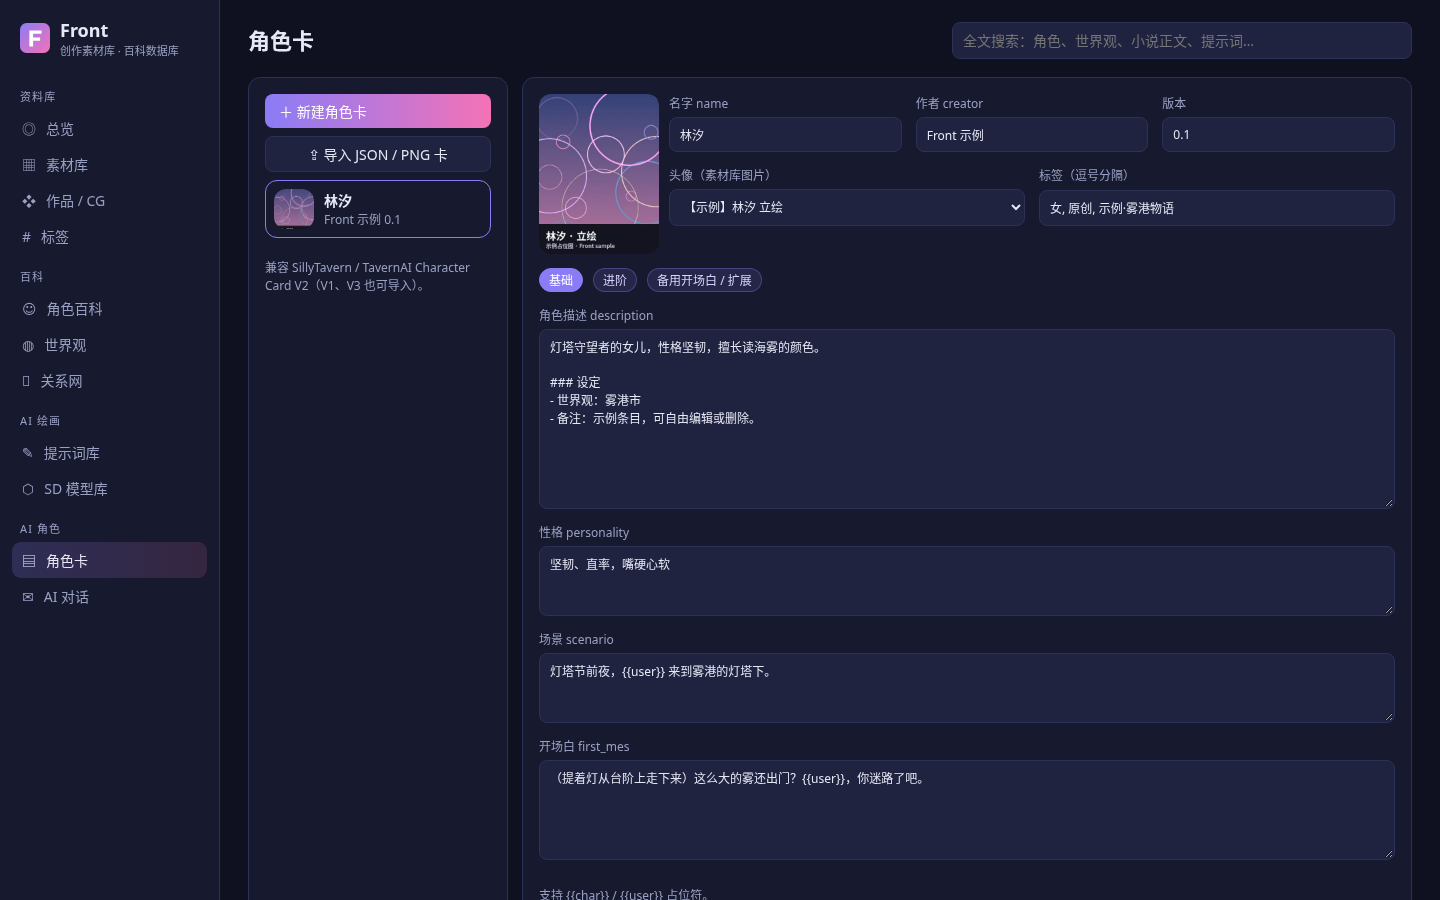
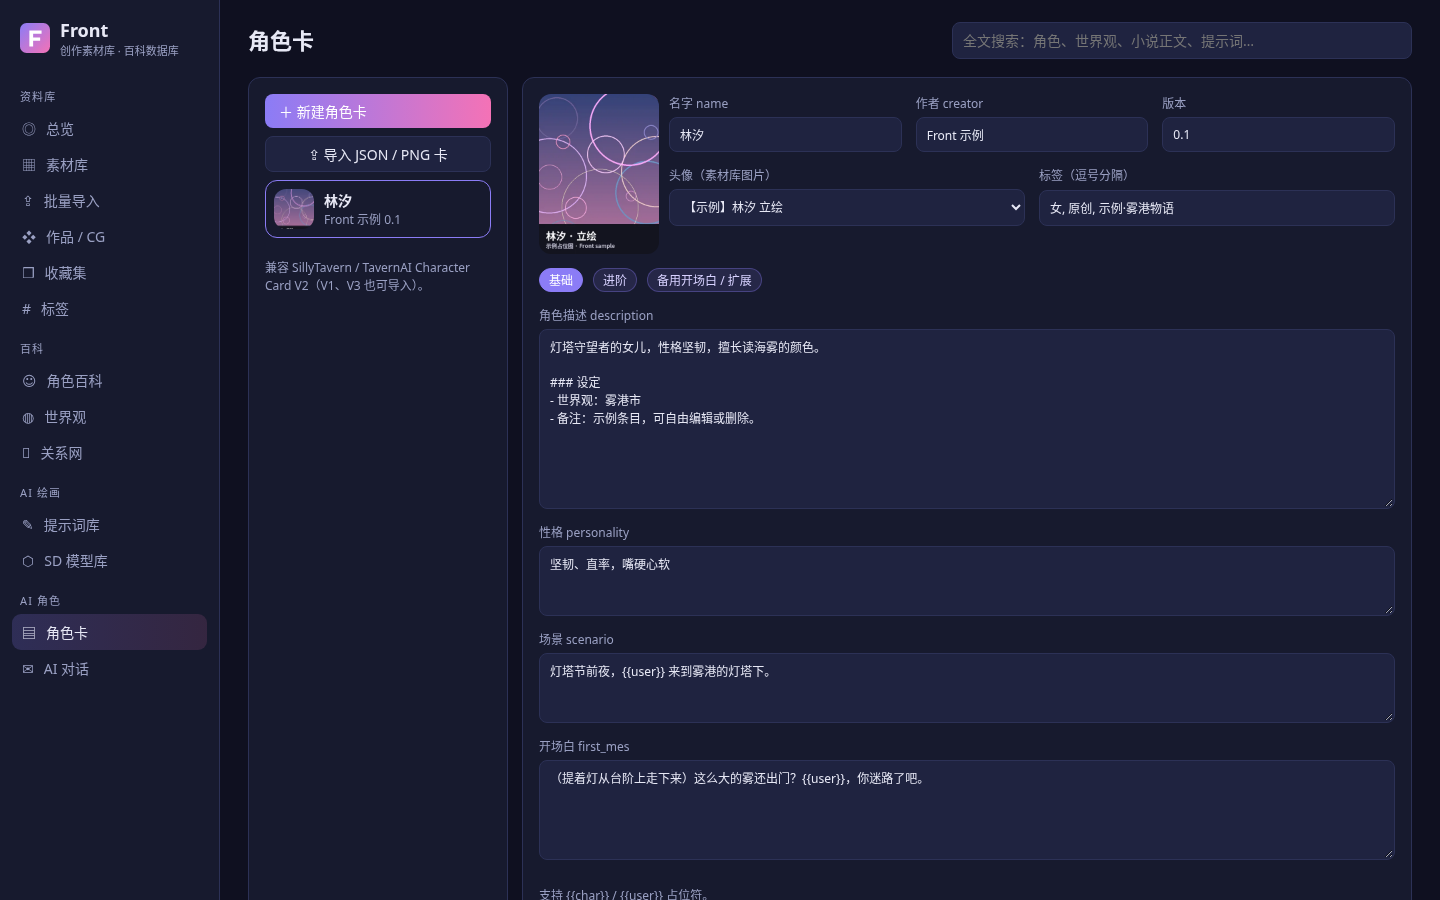
docs: v0.2.0 文档与真实运行截图

Changed region(s): [[0.0, 0.2178, 0.1562, 0.7467]]

diff --git a/README.md b/README.md
@@ -9,25 +9,28 @@
 画作、AI 出图、绘画素材、小说、galgame CG、世界观与角色关系网、SD 模型与提示词、AI 角色卡与对话，全部放进一个属于自己的数据库。
 
 [![CI](https://github.com/Fiesty-Abyss/Front/actions/workflows/ci.yml/badge.svg)](https://github.com/Fiesty-Abyss/Front/actions/workflows/ci.yml)
-![version](https://img.shields.io/badge/version-0.1.0-8b7cf6)
+![version](https://img.shields.io/badge/version-0.2.0-8b7cf6)
 ![license](https://img.shields.io/badge/license-MIT-f472b6)
 ![stack](https://img.shields.io/badge/FastAPI%20%2B%20SQLite%20%2B%20Vue%203-1f2340)
 
 </div>
 
-> Front 是一个长期持续开发的项目，当前为 **v0.1.0**（第一轮）。路线图见 [docs/ROADMAP.md](docs/ROADMAP.md)。
+> Front 是一个长期持续开发的项目，当前为 **v0.2.0**（第二轮）。路线图见 [docs/ROADMAP.md](docs/ROADMAP.md)。
 
 ## 能做什么
 
 | 模块 | 说明 |
 | --- | --- |
 | 🗂 **素材库** | 自己的画、AI 生成图、绘画素材、参考图、小说正文。按**日期（年/月）**、**类型**、**标签**、**作品**、**世界观**筛选；上传自动读取尺寸、生成缩略图、按 SHA256 去重 |
-| ✦ **AI 出图参数识别** | 上传带 SD WebUI / Forge 参数的 PNG，自动识别为“AI 生成”，提取正/反向提示词、步数、采样器、CFG、种子、模型 |
+| ⇪ **批量导入** | 输入本机文件夹路径（或在浏览器里选择文件夹），扫描预览后一键导入；可递归子文件夹、用文件修改时间作为日期、统一打标签；同内容文件自动跳过 |
+| ✦ **AI 出图参数识别** | 自动识别 **SD WebUI / Forge** 的 `parameters` 与 **ComfyUI** 的 `prompt` / `workflow`：沿节点连线找出正/反向提示词，提取采样器、步数、CFG、种子、尺寸、Checkpoint、LoRA；可下载原始工作流拖回 ComfyUI，一键存入提示词库 |
 | 📖 **角色百科** | 角色条目 + 分面标签：性别（男/女）、媒介（动漫/游戏）、来源作品、画风、类型……多个标签取交集，像百科一样检索 |
 | 🌏 **世界观** | Markdown 设定正文，挂接角色与素材 |
 | ⟡ **关系网** | 可视化角色关系图，点两个角色即可连线；AI 识别出的关系以虚线显示，人工确认后转为正式关系 |
-| 🎮 **作品 / CG 档案** | 动漫、游戏、galgame 等作品条目，按作品归档 CG 与收藏集 |
-| ✎ **提示词库** | 正向/反向提示词、参数 JSON、标签；**同一提示词 × 不同模型**并排风格对比 |
+| 🎮 **galgame CG 档案** | CG 模式导入时自动识别**差分**（`ev01a/ev01b`、`ev03_01/ev03_02`、`ev0401/ev0402`、`ev04_diff2`……，并要求分辨率一致），按作品归档；**鉴赏模式**全屏浏览：← → 切换 CG、↑ ↓ 切换差分、自动播放 |
+| ❒ **收藏集** | 拖拽排序、自定义封面（默认第一项）、收藏集之间也可拖拽排序，可关联作品 |
+| 📖 **小说阅读** | 自动拆分章节（第X章 / Chapter N / Markdown 标题 / 序章 尾声…），字数统计，阅读模式支持目录、翻章、字号、行距、四种主题，进度自动记住 |
+| ✎ **提示词库** | 正向/反向提示词、参数 JSON、标签；**同一提示词 × 不同模型**并排风格对比——从 AI 图存入时，提示词相同会自动归到同一组对比，并按模型名匹配已登记的模型 |
 | ⬡ **SD 模型库** | 登记 Checkpoint / LoRA / VAE / Embedding……读取本地 `.safetensors` 元数据、自动判断底模、计算 SHA256。**模型文件留在你的硬盘上，不复制、不上传** |
 | ▤ **角色卡编辑器** | 在线编辑 AI 角色扮演角色卡，导入/导出 **SillyTavern / TavernAI Character Card V2**（JSON 与 PNG 卡，兼容导入 V1、V3）；可从百科角色一键生成 |
 | ✉ **AI 对话** | 用角色卡进行带上下文的角色扮演对话，会话持久保存；接入任意 OpenAI 兼容接口 |
@@ -36,7 +39,7 @@
 
 ## 界面截图
 
-> 以下截图均为真实运行的 Front v0.1.0（无头浏览器截取）。截图里的内容是内置的 **【示例】数据**：雾港市、林汐等均为原创虚构设定，图片是程序生成的几何占位图，模型条目只是演示登记字段，并非真实模型或真实出图。
+> 以下截图均为真实运行的 Front v0.2.0（无头浏览器截取）。截图里的内容是内置的 **【示例】数据**：雾港市、林汐、“樱色回廊”“星之回响”等均为原创虚构，图片（包括 CG 与差分角标）是程序生成的几何占位图，模型条目和 ComfyUI 工作流只是演示字段，并非真实模型或真实出图。
 
 | 总览 | 素材库 |
 | --- | --- |
@@ -45,8 +48,14 @@
 | ![角色百科](docs/screenshots/characters.png) | ![角色详情](docs/screenshots/character-detail.png) |
 | **角色关系网** | **世界观** |
 | ![关系网](docs/screenshots/graph.png) | ![世界观](docs/screenshots/worlds.png) |
-| **作品 / galgame CG 档案** | **AI 图自动提取出图参数** |
-| ![CG 档案](docs/screenshots/works-cg.png) | ![出图参数](docs/screenshots/asset-ai-params.png) |
+| **批量导入 · CG 模式扫描预览（差分分组）** | **galgame CG 档案（按差分分组）** |
+| ![批量导入](docs/screenshots/import-preview.png) | ![CG 档案](docs/screenshots/works-cg.png) |
+| **CG 鉴赏模式（差分 2 / 3）** | **收藏集：拖拽排序与封面** |
+| ![鉴赏模式](docs/screenshots/cg-viewer.png) | ![收藏集](docs/screenshots/collections.png) |
+| **小说阅读模式（夜间）** | **小说阅读模式（羊皮纸）** |
+| ![阅读模式](docs/screenshots/reader.png) | ![阅读模式 羊皮纸](docs/screenshots/reader-paper.png) |
+| **ComfyUI 工作流解析（含 LoRA）** | **SD WebUI 出图参数** |
+| ![ComfyUI](docs/screenshots/asset-comfyui.png) | ![出图参数](docs/screenshots/asset-ai-params.png) |
 | **SD 模型库** | **角色卡编辑器** |
 | ![SD 模型库](docs/screenshots/models.png) | ![角色卡](docs/screenshots/cards.png) |
 | **AI 对话（未配置 AI 时的提示）** | **全文搜索** |
@@ -90,7 +99,7 @@ API 交互式文档：<http://127.0.0.1:8000/docs>
 | 变量 | 默认 | 说明 |
 | --- | --- | --- |
 | `FRONT_DATA_DIR` | `~/.front-data` | 数据目录：数据库 `front.db`、上传文件 `media/`、缩略图 `thumbs/`。**在仓库之外**，备份这一个文件夹即可 |
-| `FRONT_MAX_UPLOAD_MB` | `200` | 单个文件上传上限 |
+| `FRONT_MAX_UPLOAD_MB` | `200` | 单个文件上传 / 导入上限 |
 | `FRONT_AI_BASE_URL` | — | OpenAI 兼容接口地址，例如 `https://api.deepseek.com/v1`、`http://127.0.0.1:11434/v1`（Ollama）、`http://127.0.0.1:1234/v1`（LM Studio） |
 | `FRONT_AI_MODEL` | — | 模型名，例如 `deepseek-chat`、`qwen2.5:14b` |
 | `FRONT_AI_API_KEY` | — | 需要鉴权时填写 |
@@ -106,8 +115,14 @@ python -m front_api
 
 未配置 AI 时，其余功能完全可用；AI 对话与关系识别会提示如何配置。
 
+## 升级
+
+直接 `git pull`，重新 `pip install -e "backend[dev]"`、`npm run build` 后启动即可。数据库会在启动时自动补齐新版本增加的字段，已有数据不受影响（升级前建议备份数据目录）。
+
 ## 数据安全
 
+- 批量导入会把文件**复制**进数据目录，原文件不会被修改、移动或删除；不能从 Front 自己的数据目录导入。
+- Front 默认只监听 `127.0.0.1`。批量导入与模型信息读取会访问本机路径，请不要把服务直接暴露到公网。
 - 数据库、图片、小说、CG 都在 `FRONT_DATA_DIR` 里，不在仓库目录中。
 - SD 模型只登记路径与元数据，模型文件本身不会被复制或上传。
 - `.gitignore` 屏蔽了 `*.safetensors`、`*.ckpt`、`*.db`、压缩包、绘画工程文件等；测试 [`test_repo_guard.py`](backend/tests/test_repo_guard.py) 会在 CI 中检查，任何模型、数据库或 `docs/screenshots/` 以外的图片被提交都会直接失败。

diff --git a/docs/ARCHITECTURE.md b/docs/ARCHITECTURE.md
@@ -59,7 +59,14 @@ DELETE /api/<资源>/{id}
 
 | 接口 | 说明 |
 | --- | --- |
-| `POST /api/assets/upload` | multipart 上传，自动识别类型 / 尺寸 / SD 参数 / 小说编码 |
+| `POST /api/assets/upload` | multipart 上传，自动识别类型 / 尺寸 / SD WebUI 与 ComfyUI 出图信息 / 小说编码 |
+| `POST /api/import/scan` | 扫描本机文件夹（只读预览）；`cg_mode` 时返回差分分组 |
+| `POST /api/import/run` | 导入文件夹：复制进数据目录、去重、可新建作品，CG 模式下自动分组 |
+| `GET /api/works/{id}/cg`、`POST .../cg/regroup` | CG 档案（按差分分组）、重新识别差分 |
+| `GET /api/assets/{id}/chapters`、`/chapters/{n}` | 小说目录与字数、单章正文（含上一章 / 下一章） |
+| `GET /api/assets/{id}/workflow` | 下载 PNG 内嵌的 ComfyUI 工作流 |
+| `POST /api/prompts/from-asset/{id}` | AI 图的出图参数存入提示词库并记录一次出图 |
+| `POST /api/collections/{id}/items`、`DELETE .../items/{asset}`、`PUT .../order`、`PUT /api/collections/order` | 收藏集追加 / 移出 / 排序、收藏集之间排序 |
 | `GET /api/assets/{id}/file`、`/thumb` | 原文件、WebP 缩略图 |
 | `GET /api/assets/stats/timeline` | 按 年-月 × 类型 统计 |
 | `GET /api/graph?world_id=` | 关系网节点与边 |
@@ -73,6 +80,22 @@ DELETE /api/<资源>/{id}
 | `POST /api/ai/worlds/{id}/suggest-relations` | AI 识别世界观中的角色关系 |
 | `GET /api/search?q=&entity=` | 全局全文检索 |
 | `POST /api/search/rebuild` | 重建索引 |
+
+## 素材入库流程（`ingest.py`）
+
+上传接口与文件夹导入共用 `ingest()`：计算 SHA256 去重 → 判断类型（文本 / 图片）→ 读取尺寸 → 识别出图信息（`parameters` → SD WebUI；`prompt` / `workflow` → ComfyUI，见 `comfy.py`）→ 写入 `media/YYYY/MM/<sha>.<ext>` → 生成缩略图。
+
+## galgame CG 分组（`cg.py`）
+
+按顺序尝试：显式差分标记（`ev01_diff2`、`ev01差分2`）→ 数字后接字母（`ev01a`）→ 带数字前缀 + 分隔符 + 数字（`ev01_02`）→ 末尾 4 位以上数字且有兄弟文件（`ev0101`/`ev0102`）。同组还要求分辨率相同，同名不同分辨率的组以 `@1920x1080` 区分。分组结果写入 `asset.meta["cg"]`（group / variant / 顺序），档案与鉴赏模式按它展示。
+
+## 小说章节（`chapters.py`）
+
+按行识别“第X章/节/回/卷”、`Chapter N`、Markdown `#` 标题、序章 / 楔子 / 尾声 / 番外等；第一个标题前的内容归为“前言”。字数：中日文按字、英文按词。
+
+## 数据库迁移（`migrate.py`）
+
+`create_all` 只会建新表。`migrate.py` 在启动时检查已有表，缺少的新列用 `ALTER TABLE ... ADD COLUMN` 补齐，老版本的数据库可以直接升级。
 
 ## 全文检索
 
@@ -106,9 +129,14 @@ backend/
     crud.py        通用 CRUD 工厂
     search.py      FTS5 索引
     pngmeta.py     SD 参数 / 角色卡 PNG
+    ingest.py      素材入库（上传与批量导入共用）
+    comfy.py       ComfyUI prompt / workflow 解析
+    cg.py          CG 差分分组
+    chapters.py    小说章节与字数
+    migrate.py     启动时补齐新列
     seed.py        【示例】数据
     ai/            Provider 与提示词构建
-    routers/       library assets characters sd cards ai system
+    routers/       library assets importer collections characters sd cards ai system
   tests/
 frontend/
   src/views/       每个页面一个组件

diff --git a/docs/ROADMAP.md b/docs/ROADMAP.md
@@ -16,16 +16,17 @@ Front 按“每一轮一个 PR + 一个版本”持续开发。
 - [x] AI 接口层：OpenAI 兼容 Provider、角色扮演对话、关系识别
 - [x] 测试、CI、仓库卫士
 
-## 🔜 v0.2 · 素材与 CG
+## ✅ v0.2.0 · 第二轮：素材与 CG
 
-- [ ] 批量导入本地文件夹（拖拽 / 选择目录），保留原始修改日期
-- [ ] **galgame CG 识别**：扫描游戏目录或解包后的 CG 文件夹，按文件名规则 / 分辨率 / 差分分组，自动归档到对应作品
-- [ ] 差分 CG 合并显示、CG 鉴赏模式（全屏翻页）
-- [ ] 图片 EXIF / ComfyUI 工作流（PNG 内 `prompt` / `workflow`）解析
-- [ ] 收藏集拖拽排序、封面
-- [ ] 小说章节拆分、阅读模式、字数统计
+- [x] 批量导入本地文件夹（本机路径 / 浏览器选择目录），保留原始修改日期
+- [x] **galgame CG 识别**：按文件名规则 / 分辨率 / 差分分组，自动归档到对应作品
+- [x] 差分 CG 合并显示、CG 鉴赏模式（全屏翻页、切换差分、自动播放）
+- [x] ComfyUI 工作流（PNG 内 `prompt` / `workflow`）解析，下载工作流，AI 图存入提示词库
+- [x] 收藏集拖拽排序、封面
+- [x] 小说章节拆分、阅读模式、字数统计
+- [ ] 推迟到后续：后台导入任务与进度条（大文件夹）、手动调整 CG 分组、JPEG/WebP 的 EXIF 出图参数
 
-## v0.3 · 百科增强
+## 🔜 v0.3 · 百科增强
 
 - [ ] 角色详情页（Markdown 渲染、图集、出场作品、关系列表）
 - [ ] 世界观下的地点 / 组织 / 事件 / 时间线条目

diff --git a/CHANGELOG.md b/CHANGELOG.md
@@ -1,5 +1,19 @@
 # 更新日志
 
+## v0.2.0 · 2026-10-17
+
+第二轮：素材与 CG。
+
+- **批量导入**：本机文件夹路径扫描预览 + 导入（递归、文件修改时间作为日期、统一标签 / 作品 / 世界观、按内容去重、单次最多 5000 个文件）；也可在浏览器中选择文件夹上传
+- **galgame CG 识别**：按文件名规则（字母差分、`_数字` 差分、末尾连续数字、`diff/sabun/差分` 标记）+ 分辨率分组；导入时可新建作品；`/api/works/{id}/cg` 分组档案、`regroup` 重新识别
+- **CG 鉴赏模式**：全屏、← → 切换 CG、↑ ↓ / 数字键切换差分、自动播放、预加载、隐藏界面
+- **ComfyUI 解析**：API 格式 `prompt`（沿连线解析 Combine / Primitive 等中间节点）与界面格式 `workflow`；提取 Checkpoint / UNET、LoRA、采样参数、尺寸；下载内嵌工作流
+- **AI 图 → 提示词库**：`/api/prompts/from-asset/{id}`，相同提示词自动复用并加入模型对比，按文件名匹配已登记模型
+- **收藏集**：内容排序（拖拽）、追加 / 移出、自定义封面（默认第一项）、收藏集排序
+- **小说**：章节自动拆分、字数统计（中日文按字、英文按词）、阅读模式（目录、翻章、字号、行距、四种主题、进度记忆）
+- 启动时自动迁移数据库新字段
+- 测试 35 → 61 项；示例数据新增差分 CG、ComfyUI 示例图、分章节小说和收藏集
+
 ## v0.1.0 · 2026-10-17
 
 第一轮：项目骨架与全部核心模块的第一版。
